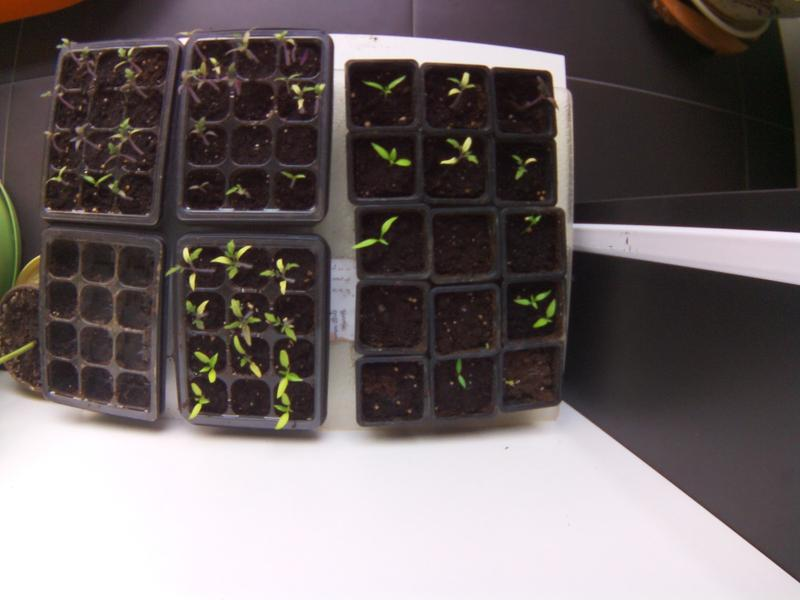
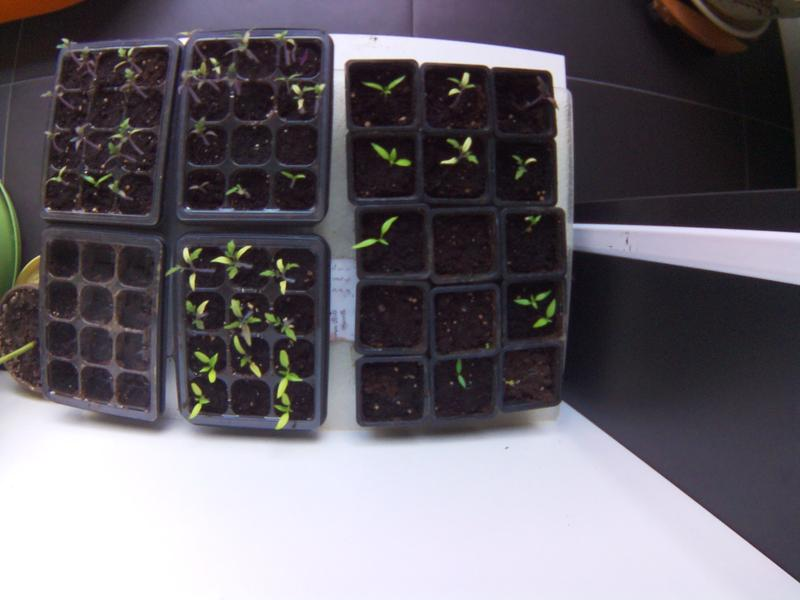
:bento: Update preview

diff --git a/index.html b/index.html
@@ -39,7 +39,7 @@
                     <tbody>
                         <tr>
                             <td>Time</td>
-                            <td>2024-05-14 12:00:40.646502+02:00</td>
+                            <td>2024-05-14 12:10:48.287534+02:00</td>
                         </tr>
                         
                     </tbody>
@@ -48,7 +48,7 @@
 
                 <h5>Latest picture</h5>
 		<div style="width: 85%;">
-	                <img class="figure-img img-fluid rounded" src="./preview.jpg?uid=1715680844.2420905">
+	                <img class="figure-img img-fluid rounded" src="./preview.jpg?uid=1715681451.8888319">
 		</div>
             </div>
         </div>
